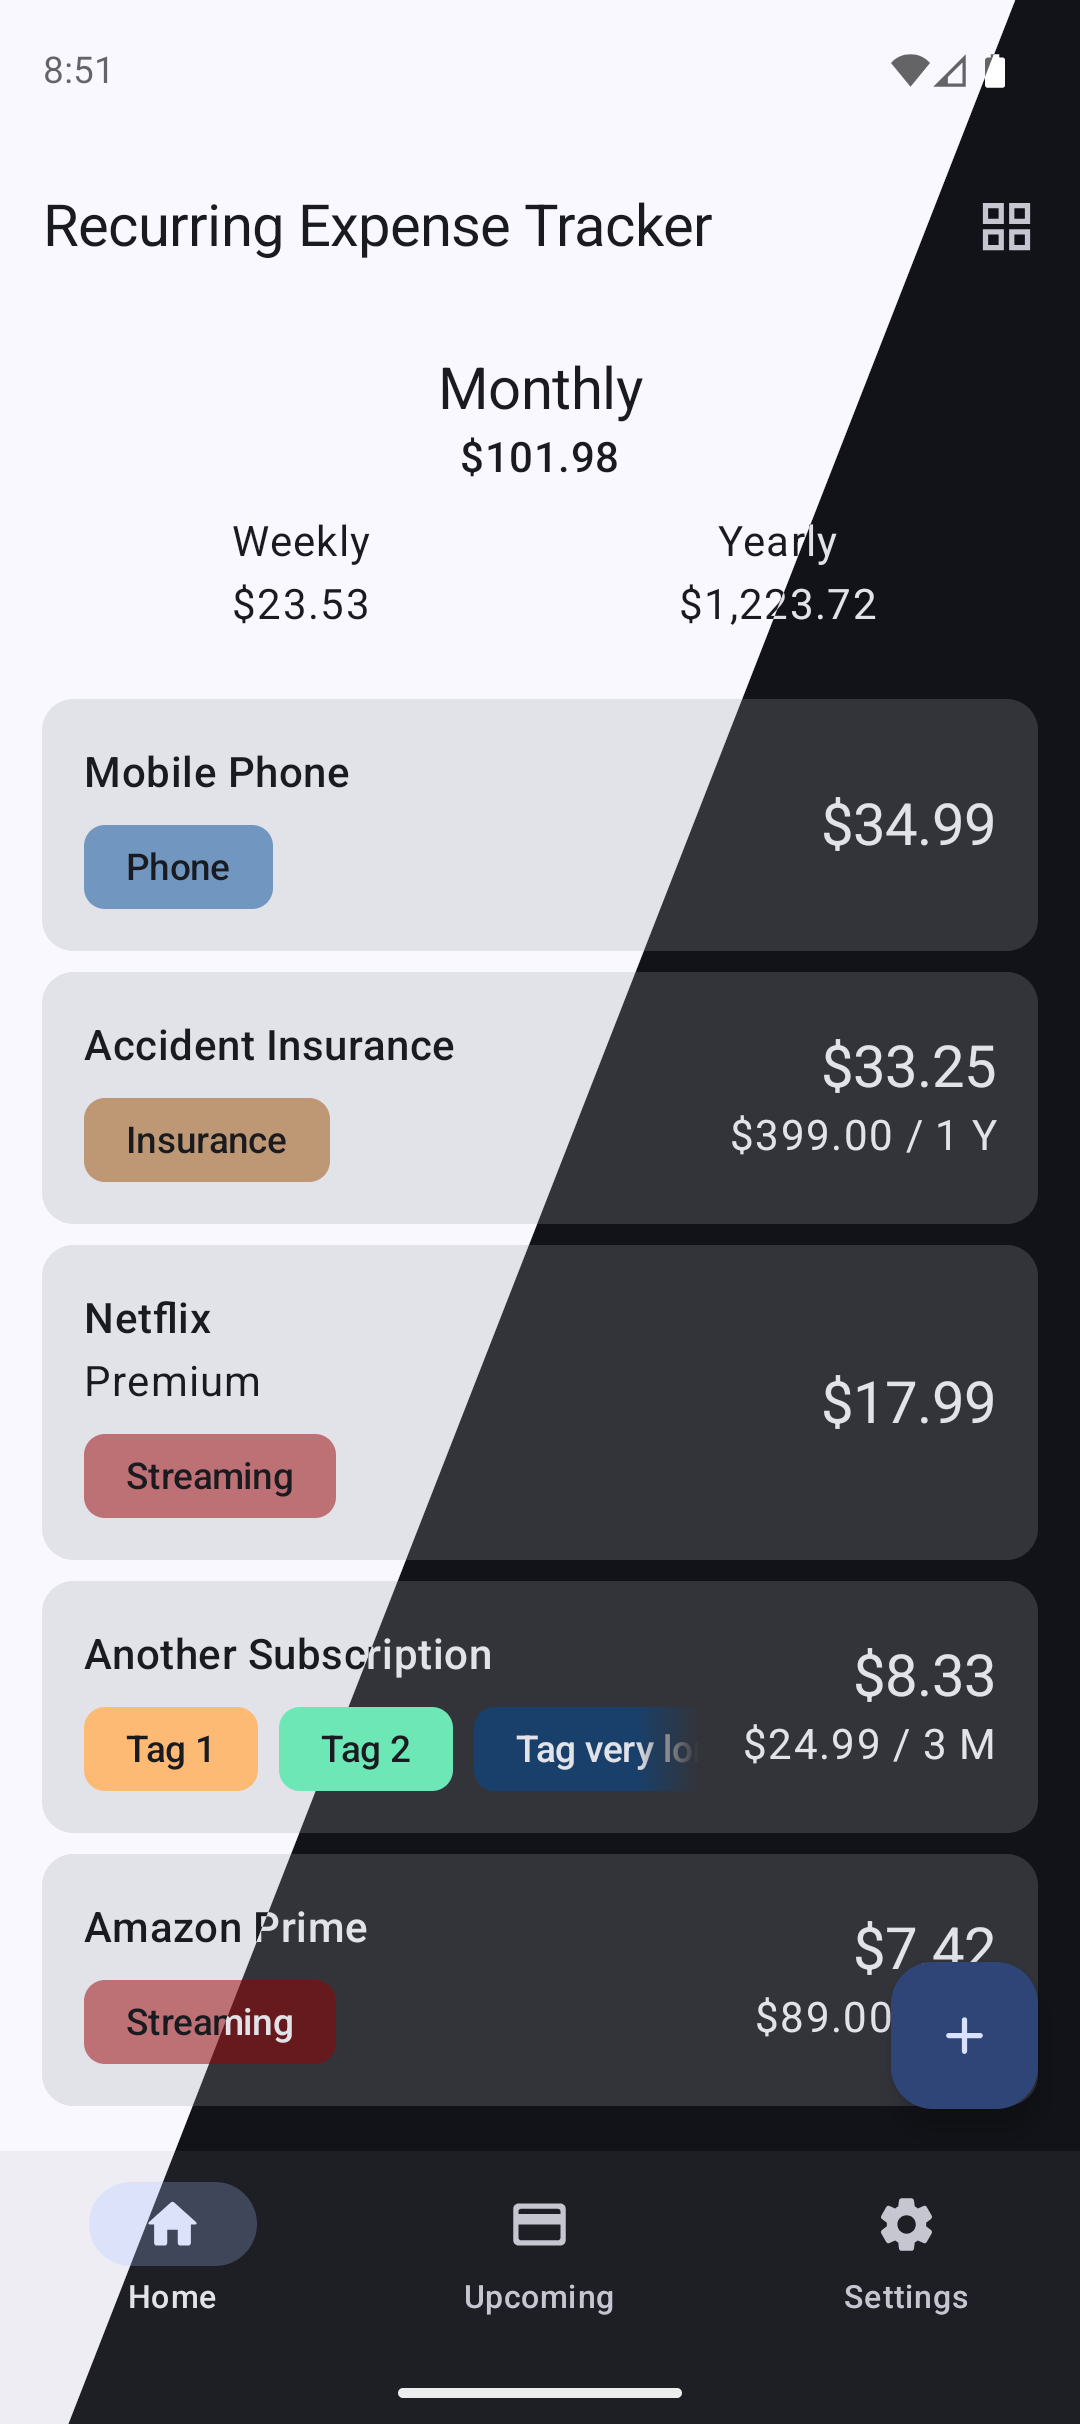
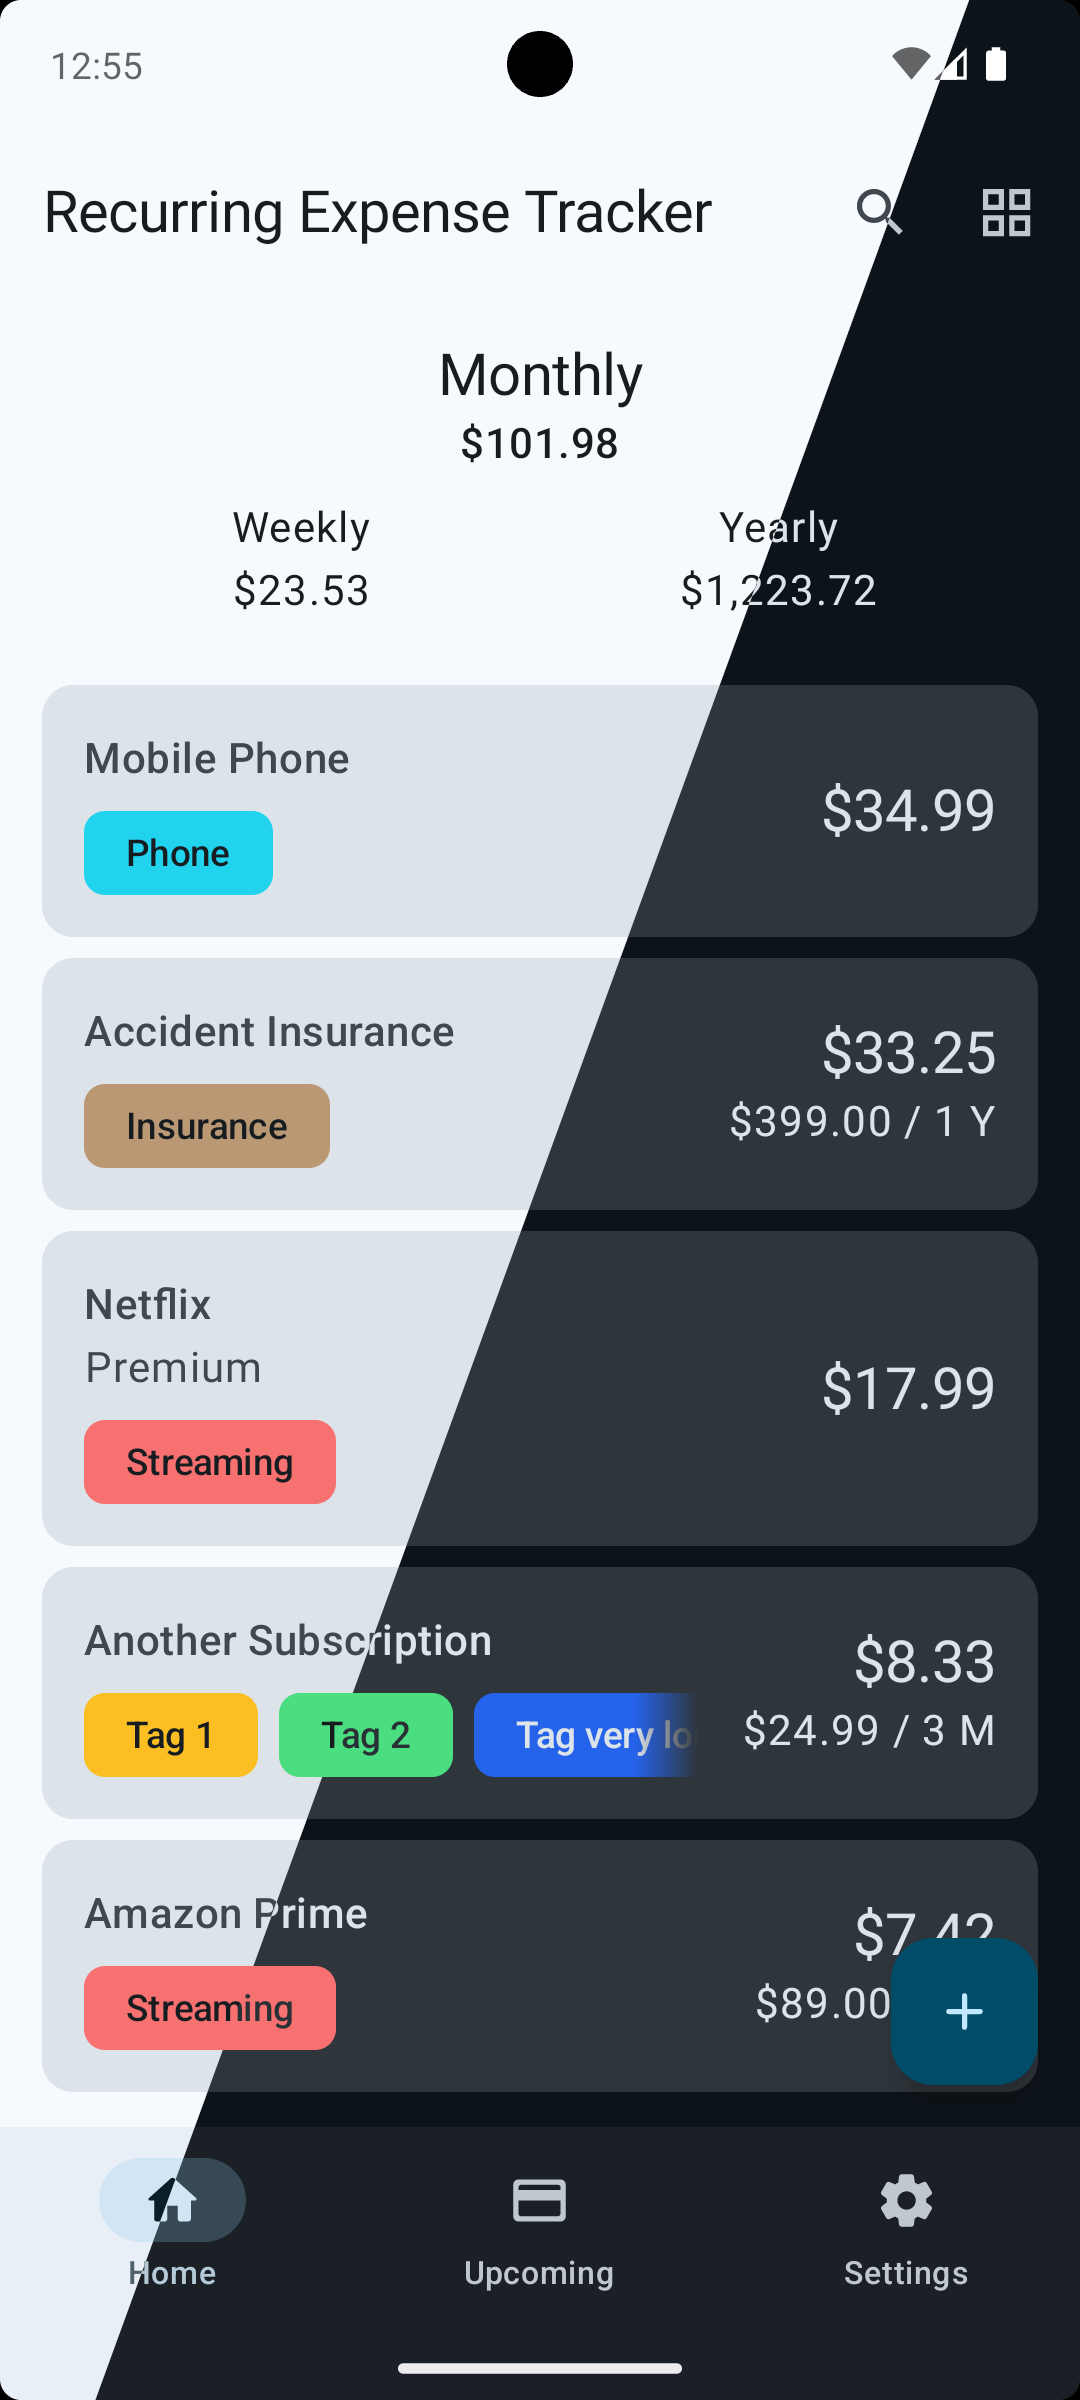
Create new release 0.20.0
* Feat: Allow marking expenses as paid manually
* Feat: Allow searching for expenses
* Feat: Add continue button to jump to next screen on WhatsNew
* (Arabic) translation updated
* Update exchange rates and licenses
* Update dependencies

Update README.md with new screenshots

diff --git a/README.md b/README.md
@@ -56,7 +56,7 @@ My idea is to add new features iteratively, and I'm happy for any contribution. 
 - **Android 15 Widget Previews**: Enhanced widget preview support
 
 ### 🌍 Internationalization
-- **15+ Languages**: Extensive translation support through community contributions
+- **20+ Languages**: Extensive translation support through community contributions
 - **Community-Driven Translations**: Help translate the app on [Weblate](https://hosted.weblate.org/engage/recurringexpensetracker/)
 
 ### 💡 Advanced Use Cases
